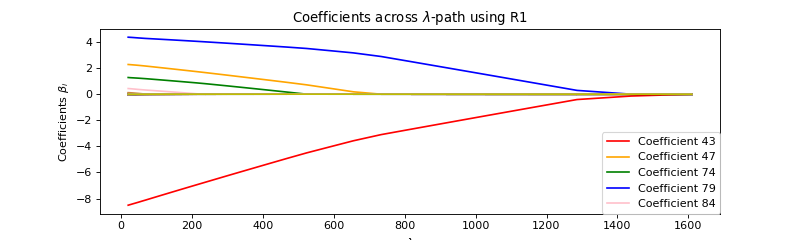
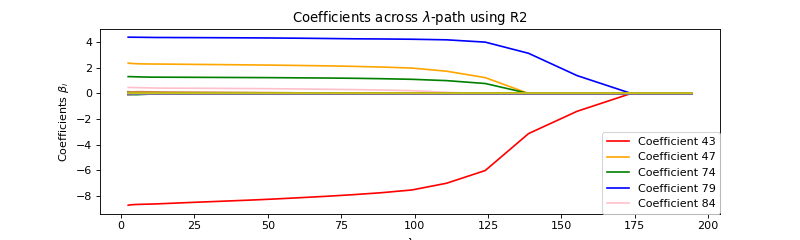
update

diff --git a/examples/exampleJOSS.py b/examples/exampleJOSS.py
@@ -1,0 +1,36 @@
+path = '/Users/lsimpson/Desktop/GitHub/Figures/example1/'
+import numpy
+from classo import classo_problem, random_data
+
+n,d,d_nonzero,k,sigma =100,100,5,1,0.5
+(X,C,y),sol = random_data(n,d,d_nonzero,k,sigma,zerosum=True, seed = 123 )
+print("Relevant variables  : {}".format(numpy.nonzero(sol)[0] ) )
+
+problem  = classo_problem(X,y,C)
+
+problem.formulation.huber  = True
+problem.formulation.concomitant = False
+problem.formulation.rho = 1.5
+
+problem.model_selection.LAMfixed = True
+problem.model_selection.PATH = True
+problem.model_selection.LAMfixedparameters.rescaled_lam = True
+problem.model_selection.LAMfixedparameters.lam = 0.1
+
+problem.solve()
+
+
+
+
+
+problem.solution.StabSel.save1 = path+problem.model_selection.StabSelparameters.numerical_method+'-StabSel'
+problem.solution.StabSel.save2 = path+problem.model_selection.StabSelparameters.numerical_method+'-StabSel-path'
+problem.solution.StabSel.save3 = path+problem.model_selection.StabSelparameters.numerical_method+'-StabSel-beta'
+#problem.solution.CV.save = path+'CV-beta'
+problem.solution.LAMfixed.save = path+problem.model_selection.PATHparameters.numerical_method+'-LAM-beta'
+problem.solution.PATH.save = path+problem.model_selection.LAMfixedparameters.numerical_method+'-PATH'
+
+
+
+
+print(problem.solution)

diff --git a/paper/paper.md b/paper/paper.md
@@ -274,17 +274,17 @@ The default value is a scale-dependent tuning parameter that has been proposed i
 The c-lasso package includes
 the routine ```random_data``` that allows you to generate problem instances using normally distributed data.
 
-It generates randomly the vectors $\beta \in R^d$ , $X \in R^{n\times d}$ , $C \in R^{k\times d}$ (can also be the all-one vector with the input ```zerosum``` set to true), and $y \in R^n$ normally distributed with respect to the model $C\beta=0$, $y-X\beta \sim N(0,I_n\sigma^2)$ and $\beta$ has only d_nonzero non-null componant.
+[comment]: <> (It generates randomly the vectors $\beta \in R^d$ , $X \in R^{n\times d}$, $C \in R^{k\times d}$ [can also be the all-one vector with the input ```zerosum``` set to true], and $y \in R^n$ normally distributed with respect to the model $C\beta=0$, $y-X\beta \sim N[0,I_n\sigma^2]$ and $\beta$ has only d_nonzero non-null componant. )
 
 
-
-Let us now use c-lasso with this dataset. 
+ It allows perform some functionality of the package on synthetic data as an example. 
 
 ```python
 from classo import classo_problem, random_data
 
 n,d,d_nonzero,k,sigma =100,100,5,1,0.5
 (X,C,y),sol = random_data(n,d,d_nonzero,k,sigma,zerosum=True, seed = 123 )
+print("Relevant variables  : {}".format(list(numpy.nonzero(sol)) ) )
 
 problem  = classo_problem(X,y,C)
 
@@ -298,78 +298,33 @@ problem.model_selection.LAMfixedparameters.rescaled_lam = True
 problem.model_selection.LAMfixedparameters.lam = 0.1
 
 problem.solve()
+
+print(problem.solution)
 ```
 
-Here, the [formulation](#formulations) used is [*R2*](#R2), with $\rho=1.5$. The [model selections](#model) used are *Fixed Lambda* with $\lambda = 0.1\lambda_{\max}$ , *Path computation* and *Stability Selection* which is computed by default. 
+The [formulation](#formulations) used is [*R2*](#R2), with $\rho=1.5$. The [model selections](#model) used are *Fixed Lambda* with $\lambda = 0.1\lambda_{\max}$ , *Path computation* and *Stability Selection* which is computed by default. 
 
-#### Output
-
+The output is then : 
 
 ```python
->>> # let's visualize the main parameters set in the problem instance
->>> problem
-
-FORMULATION: R2
- 
-MODEL SELECTION COMPUTED:  
-     Lambda fixed
-     Path
-     Stability selection
- 
-LAMBDA FIXED PARAMETERS: 
-     numerical_method = DR
-     rescaled lam : True
-     threshold = 0.177
-     lam = 0.1
-     theoretical_lam = 0.1994
- 
-PATH PARAMETERS: 
-     numerical_method : Path-Alg
-     Npath = 40
-     lamin = 0.013
-     lamax = 1.0
- 
-STABILITY SELECTION PARAMETERS: 
-     numerical_method : Path-Alg
-     method : first
-     B = 50
-     q = 10
-     percent_nS = 0.5
-     threshold = 0.7
-     lamin = 0.01
-     Nlam = 50
-
->>> # let's the solutions found
->>> problem.solution
+Relevant variables  : [43 47 74 79 84]
 
  LAMBDA FIXED : 
    Selected variables :  43    47    74    79    84    
-   Running time :  0.094 s
+   Running time :  0.294s
 
  PATH COMPUTATION : 
-   Running time :  0.221 s
+   Running time :  0.566s
 
  STABILITY SELECTION : 
    Selected variables :  43    47    74    79    84    
-   Running time :  2.468 s
-
+   Running time :  5.3s
 ```
 
 ![Graphics plotted after calling problem.solution ](figures/_figure-concat.png)
 
 
-
-As this variable selection has been computed for generated data, one can plot the real relevant variables :
-
-```python
->>> print( list(numpy.nonzero(sol)) )
-[43, 47, 74, 79, 84]
-```
-
-It is indeed the variables that have been selected with the solution threshold for a fixed lambda, and with stability selection. Let us also note that the running time is still very low in our example. 
-
-Those remarks are comforting, but not surprising because in this example the noise is little and the number of variable is still small. 
-
+It is indeed the variables that have been selected with the solution threshold for a fixed lambda, and with stability selection. Let us also note that the running time is still very low in our example. Those remarks are comforting, but not surprising because in this example the noise is little and the number of variable is still small. 
 
 
 # Acknowledgements
